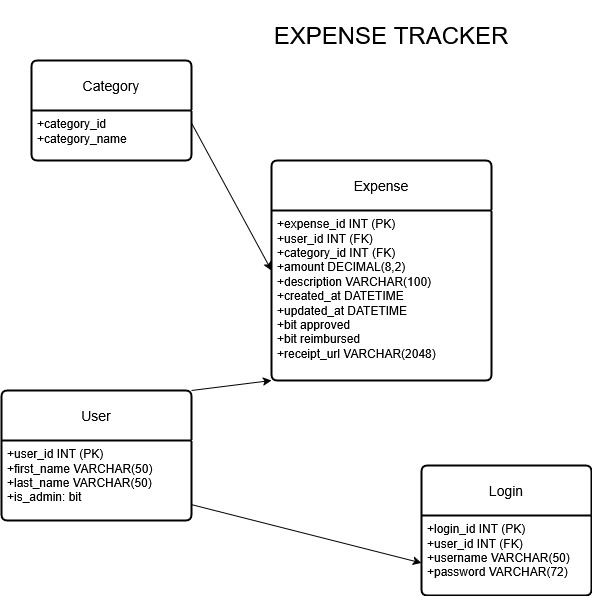
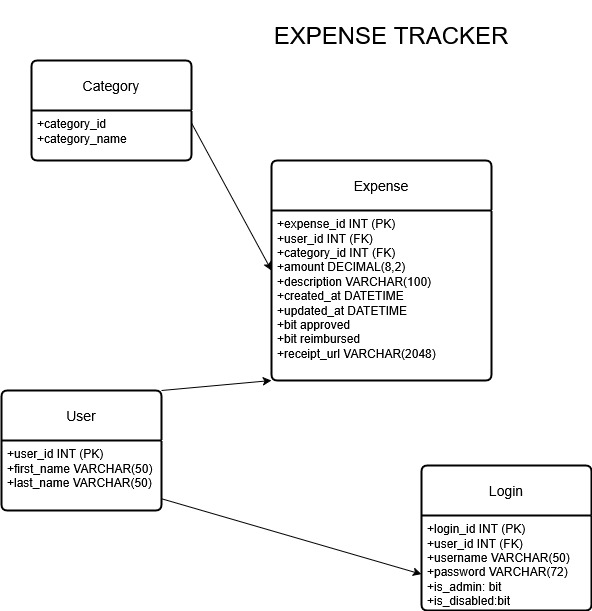
added disabled to login, updated schema, made necessary changes to login model and login mapper, as well as login jdbcRepository

diff --git a/ExpenseTracker/src/main/java/learn/finance/repository/LoginJdbcRepository.java b/ExpenseTracker/src/main/java/learn/finance/repository/LoginJdbcRepository.java
@@ -16,7 +16,7 @@ public class LoginJdbcRepository implements LoginRepository{
 
     @Override
     public Login findLoginByUserId(int userId) {
-        final String sql = "SELECT login_id, user_id, user_name, password, is_admin FROM login " +
+        final String sql = "SELECT login_id, user_id, user_name, password, is_admin, disabled FROM login " +
                 "WHERE user_id = ?;";
 
         return jdbcTemplate.query(sql, new LoginMapper(), userId).stream()

diff --git a/ExpenseTracker/src/main/java/learn/finance/model/Login.java b/ExpenseTracker/src/main/java/learn/finance/model/Login.java
@@ -6,6 +6,15 @@ public class Login {
     private String userName;
     private String password;
     private boolean isAdmin;
+    private boolean disabled;
+
+    public boolean isDisabled() {
+        return disabled;
+    }
+
+    public void setDisabled(boolean disabled) {
+        this.disabled = disabled;
+    }
 
     public int getLoginId() {
         return loginId;

diff --git a/ExpenseTracker/src/main/java/learn/finance/repository/mappers/LoginMapper.java b/ExpenseTracker/src/main/java/learn/finance/repository/mappers/LoginMapper.java
@@ -16,6 +16,7 @@ public class LoginMapper implements RowMapper<Login> {
         login.setUsername(resultSet.getString("user_name"));
         login.setPassword(resultSet.getString("password"));
         login.setAdmin(resultSet.getBoolean("is_admin"));
+        login.setDisabled(resultSet.getBoolean("disabled"));
         return login;
     }
 }
